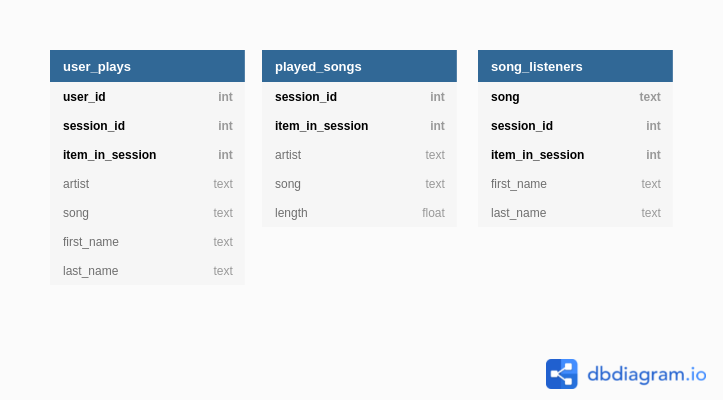
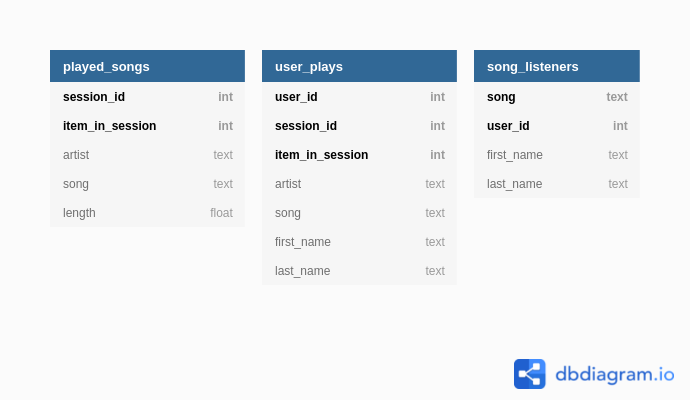
Elaborate further on the realization of the data model

diff --git a/README.md b/README.md
@@ -35,9 +35,7 @@ format, a sample of the data is given below.
 
 ### Queries and data model
 
-The data in the Apache Cassandra database is modelled to fit the type of 
-queries that are run against the database. The type of queries run against the 
-database are:
+The type of queries run against the database are:
 
 1. Give me the artist, song title and song's length in the music app 
    history that was heard during sessionId = #, and itemInSession = #.
@@ -47,6 +45,60 @@ database are:
    
 3. Give me every user name (first and last) in my music app history who 
    listened to the song #.
+
+The data in the Apache Cassandra database is modelled to fit the type of 
+queries that are run against the database. For this reason, each query type 
+needs its own table to perform the queries on. To be descriptive of the type of 
+queries performed, the tables are named as follows:
+
+1.  played_songs
+2.  user_plays
+3.  song_listeners
+
+Now, the corresponding select CQL queries can be formulated. An example 
+query against each of the tables is given below:
+
+1.  Query 1:
+    ```
+    SELECT artist, song, length 
+    FROM played_songs 
+    WHERE session_id = '338' AND item_in_session = '4';
+    ```
+
+2.  Query 2:
+    ```
+    SELECT artist, song, first_name, last_name 
+    FROM user_play
+    WHERE user_id = '10' AND session_id = '182';
+    ```
+    
+3.  Query 3:
+    ```
+    SELECT first_name, last_name
+    FROM song_listeners
+    WHERE song = 'All Hands Against His Own';
+    ```
+
+To successfully run the first query, a table must be created that can filer 
+based on *session_id* and *item_in_session*. As such, both *session_id* and 
+*item_in_session* must be contained in one, compound primary key. This primary 
+key also meets the requirement of uniqueness. Moreover, the columns *artist*, 
+*song* and *length* that are in the select statement must be included as well.
+
+Running the second query requires a table that can filter based on *user_id* 
+and *session_id*. Moreover, the results should be ordered based on 
+*item_in_session*. To make this possible, and make the primary key unique as 
+well, the primary key must comprise *user_id*, *session_id* and 
+*item_in_session*. The columns *user_id* and *session_id* may hereby act as 
+compound partition key, where *item_in_session* then constitutes a clustering 
+column. The columns *artist*, *song*, *first_name* and *last_name* must be 
+included as well, as they are in the select statement.
+
+Finally, the third query requires a table that can filter based on *song*
+(song title). To make the primary key unique, an efficient choice would be to 
+include *song* together with *user_id* in the primary key. For the partition 
+key, *song* is chosen. Finally, the columns *first_name* and *last_name* are 
+included as they are included in the select statement.
    
 Consequently, the data model for the database looks as follows:
 
